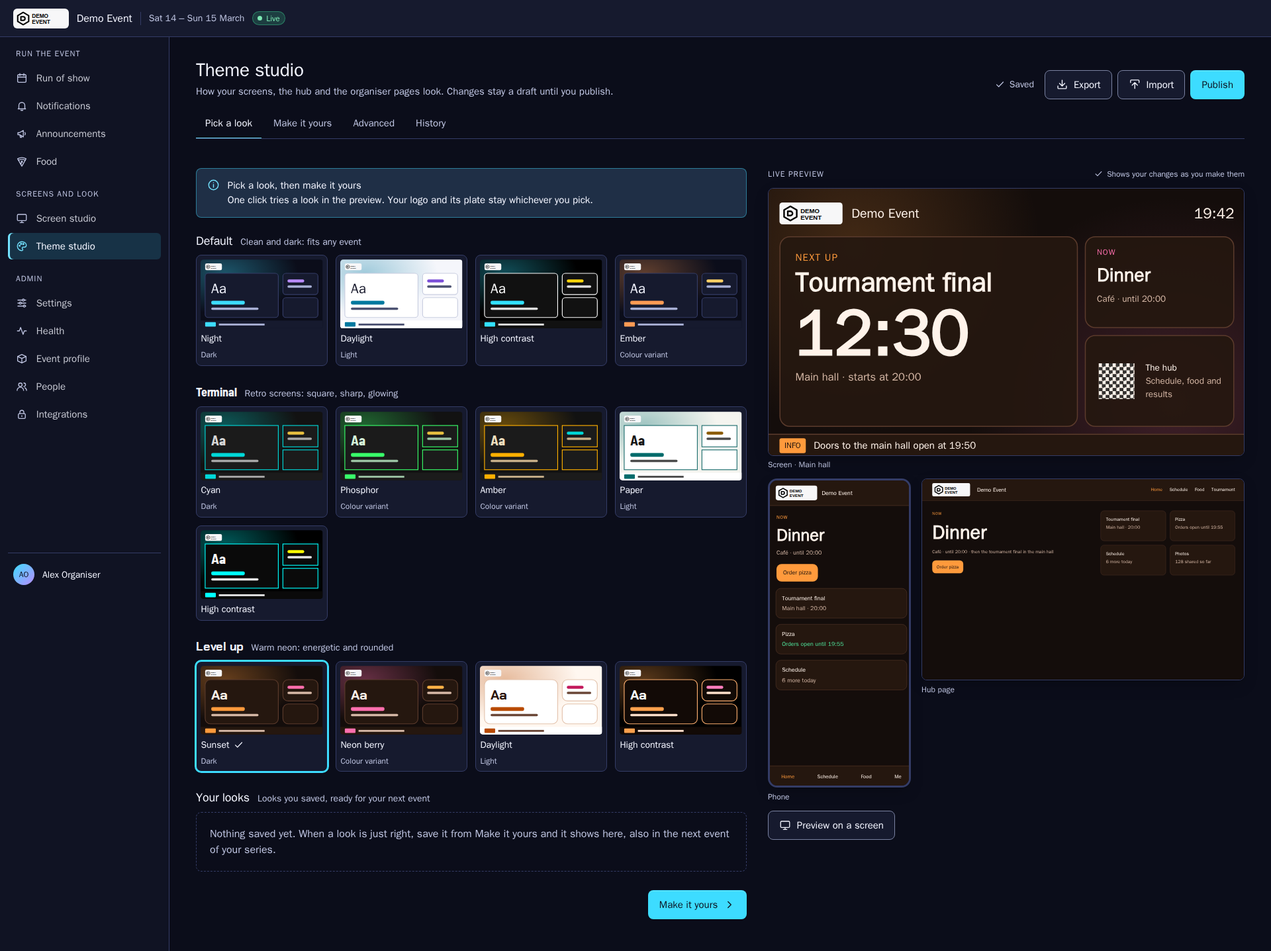
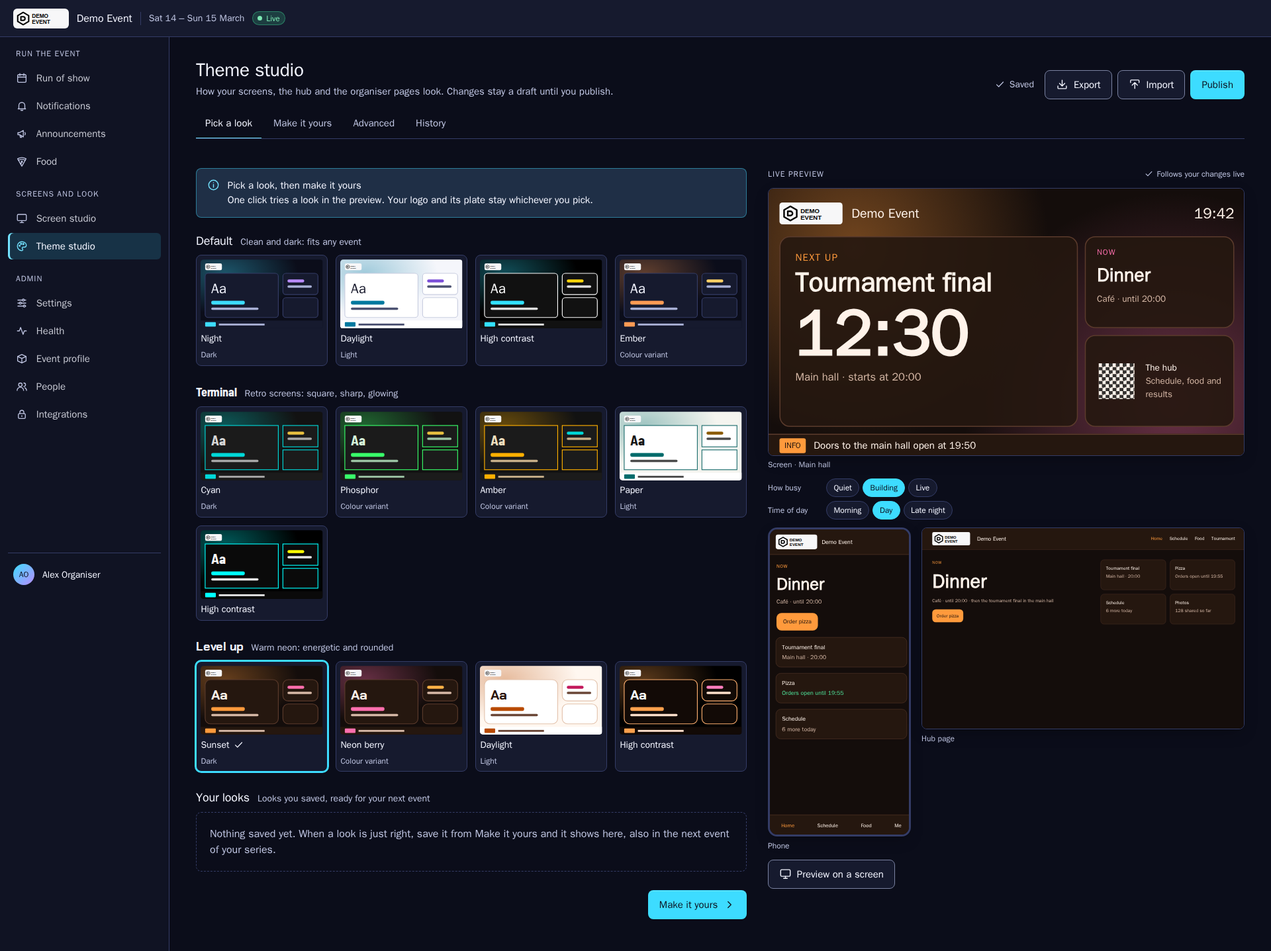
docs(design): living screen background, motion in one place, compact fonts, sticky preview (part 0 of #784)

diff --git a/docs/plans/issue-784.md b/docs/plans/issue-784.md
@@ -10,7 +10,7 @@
 
 **Spec:** [issue #784](https://github.com/Tammilanit/canccuplatform-next/issues/784) (Scope 1–5 and its acceptance criteria), [contracts/theming.md](../../contracts/theming.md), [contracts/theme.schema.json](../../contracts/theme.schema.json), the [design guideline](../design/README.md) (amendments 3 and 5), and the [briefs' mockup rules](../briefs/README.md#outline-of-a-research-pack). Linked: #785 (the Themes step designs the 5–10 presets this studio shows) and #725 (studio rows of the view audit; see Roadmap notes).
 
-**Status:** accepted by the lead on 2026-11-25, Q1–Q5 as recommended (Q4: the pack shows all 14 pairs and the PO keeps 10–15). Part 0, the pack, is built in the plan's own PR (branch `784-feat-theming-the-theme`, not `pkg-784-pack`). The lead releases each later part after the one before it merges, and Part 1 only after the PO accepts the pack.
+**Status:** accepted by the lead on 2026-11-25, Q1–Q5 as recommended (Q4: the pack shows all 14 pairs and the PO keeps 10–15). Part 0, the pack, is built in the plan's own PR (branch `784-feat-theming-the-theme`, not `pkg-784-pack`). The lead releases each later part after the one before it merges, and Part 1 only after the PO accepts the pack. **Revised 2026-11-25** after the PO's and the lead's comments on the pack: the screen background is alive (D8, D21), motion is set in one place (D14, D22), Speed and Strength are dropped, and the level follows how active the screen is (D22).
 
 ## Why a plan first
 1. **The issue says design first.** A script-built pack goes to the PO for a `manual-accept` before any build. Part 0 below is that pack.
@@ -34,7 +34,7 @@
 ## Global constraints
 - **Additive only.** No field, code, path, class, custom property or event is removed or renamed. If a change turns out to be breaking, stop and ask the lead.
 - **Migrations:** only Part 4 adds one, `009_presets.sql`, which only creates a table: no drop, rename or type change. A merged migration is never edited.
-- **The simple mode stays simple.** Every choice in Pick a look and Make it yours is a brand field or `motion`. None of them sets `mode: advanced`. Advanced controls follow today's rule: any token change except `motion` and `motion_style` makes the theme advanced.
+- **The simple mode stays simple.** Every choice in Pick a look and Make it yours is a brand field or `motion_style`. None of them sets `mode: advanced`. Advanced controls follow today's rule: any token change except `motion` and `motion_style` makes the theme advanced.
 - **Contrast:** the simple mode never produces a failing pair (contracts/theming.md, Brand kit). Every scheme of every preset passes `contrastFailures` (a test, Part 2).
 - **No typing in depths 1 and 2.** Colours use pickers and swatches. Sizes and levels use chips or sliders. Fonts are chosen from a list. The only text fields are the preset name in Save as my preset and the CSS and template editors in Advanced.
 - **No internal words on screens.** The pages never show token keys, file paths, ids or CSS values as labels ([mockup rules](../briefs/README.md#outline-of-a-research-pack)). Every label is plain words, and every Advanced control has a tooltip.
@@ -55,7 +55,7 @@
 | D5 | **The plate check:** `plateAdvice(rgba, grounds)` in `src/logo-plate.ts`. It rasterises the logo once to 128 px (`sharp`, as `raster.ts` does) and counts the opaque pixels (alpha ≥ 128). A ground "shows" the logo when at least 50 % of those pixels have a WCAG contrast of 3:1 or more against it. The grounds are the theme's `background` (screen) and `surface` (hub and shell). A logo whose box is at least 98 % opaque brings its own ground and always shows. When a ground fails, the check suggests the first plate of light, dark and surface on which at least 80 % of the pixels reach 3:1; if none does, it suggests light for a dark logo (mean luminance < 0.5) and dark otherwise. A failing logo without a plate gives the warning problem `logo_unreadable` on the logo's path. Results are kept in memory by (file sha256, ground colours), up to 256 entries | Scope 2: "A contrast check suggests a plate when the logo would vanish". `contrastRatio` already exists in `src/contrast.ts` (the issue names `readability.ts`, but contrast lives in `contrast.ts`) |
 | D6 | **`brand.font_pair`** (optional): the id of a platform font pair (`heading`, `body`). Fourteen pairs, all SIL OFL, are proposed in the pack and the PO picks 10–15 (Q4). They sit in `modules/theming/fonts/<pair>/` with their `.woff2` files, `LICENSE.txt` and `pair.json` (`name`, `heading`, `body`, the weights). They are served at `GET /theming/fonts/<pair>/<file>` (public, immutable) and listed at `GET /api/theming/font-pairs`. The generated token CSS adds their `@font-face` rules and sets `fonts.heading`, `fonts.display` and `fonts.body`. A pair that this platform version does not hold gives the warning `reference_unknown` and falls back to the system font | Scope 2: "a curated list (10–15 freely licensed pairs, self-hosted)". These are platform files and not package files, so the simple mode still holds no fonts |
 | D7 | **`brand.roundness`** (optional): `square` (0), `soft` (`0.5rem`, today's default) or `round` (`1rem`), generated into `sizes.radius`. In Advanced, a token change to `sizes.radius` clears `brand.roundness`, and a change to `fonts.*` clears `brand.font_pair`, so each value has only one source | Scope 2 "corner roundness". Without the clearing rule, a later brand save would silently overwrite an advanced choice |
-| D8 | **`brand.backdrop`** (optional): `{kind: glows\|gradient\|image\|game_art, image?: "images/…"}`, default `glows` (the stage as it is today). `gradient` is a still diagonal from `primary` through `background` to `accent`, under the scrim. `image` is a package image under `--canccu-stage-scrim`. `game_art` shows the current game's art (Screen's `display.stage.tint.art`) at every energy level, still at `none`, instead of only at lively and party. `GET /api/theming/current` gains `backdrop` (`kind`, `image_url`). The screen player adds `canccu-stage--backdrop-<kind>` and a `canccu-stage__backdrop` layer above `__glow`, and keeps the scrim on top so contrast stays true. The backdrop is for the screen; hub pages keep their plain background | Scope 2 "the background (a gradient, an image, or the current game's art)". Hub pages are read on phones, where an image behind text hurts reading (Roadmap note if the PO wants it there) |
+| D8 | **`brand.backdrop`** (optional, replaces the earlier single `kind`): `{looks?: (glows\|gradient\|particles)[], game_art?: boolean, daylight?: boolean, hype?: boolean, image?: "images/…"}`. `looks` are the looks in the cycle (default all the generated looks, a theme may bring more); the three booleans default to `true`. The screen background is a slow cycle: at random among `looks`, with a long crossfade every few minutes, calm and never busy. `game_art` means the current game's art replaces the cycle while a game is building or live, then the cycle returns (game art is not a fixed choice). `daylight` follows the time of day. `hype` lets the hype drive particles and glow. `image` (Advanced only; Part 4 adds `video` with its `poster`) replaces the cycle with the organiser's own picture under `--canccu-stage-scrim`. `GET /api/theming/current` gains `backdrop` with these fields (and `image_url`). The scrim stays on top so contrast stays true. The backdrop is for the screen; hub pages keep their plain background | Scope 2 "the background". The PO's revision: alive, not one fixed choice. Hub pages are read on phones, where a moving image behind text hurts reading (Roadmap note if the PO wants it there) |
 | D9 | **Schemes:** a preset's `theme.yaml` gains `schemes`: 3–5 entries, each `{id, name, kind: dark\|light\|contrast\|accent, brand: {primary, accent, scheme}, colors?}`. `colors` is a whole colour-token set, for presets whose colours are tuned by hand (`terminal`, `level-up`). Without it, the colours are generated from `brand`. A draft gains `preset: {id, scheme}`, saying where it came from. The `schemes` of a package are kept as they are (the round trip loses nothing) and are read only by the gallery | Scope 1: "each with its 3–5 colour schemes (dark, light, high contrast, accent variants)" |
 | D10 | **Presets are read from `events/demo/themes/`** at start, the same folder the starting points zip today (`STARTERS`), cached and validated against the schema. `GET /api/theming/presets` lists them with their schemes and the scheme's colours. #785 adds the new ones to the same folder unless Q2 moves them | Lean: the folder and its CI checks (`check-theme-refs`, shots per theme) already exist |
 | D11 | **Applying a preset:** `PUT /api/theming/draft/preset` `{preset, scheme, draft_version?}` (creating the draft when there is none) replaces the draft's content with the preset package and the scheme's colours. It **keeps** the event's `images.logo`, `images.icon`, `brand.logo_plate` and `brand.embed_color`, and sets `preset`. Reset to the preset is the same call with the draft's own `preset`. A draft without `preset` shows "Start again from a preset…", which opens Pick a look. Replacing a draft whose CSS, fonts, templates or embeds would be lost asks first in a dialog. Embeds need `theming.embeds.write`, as a package upload does | Scope 4: "Reset to the preset is always there". It reuses the package path (`putPackage`), so a preset goes through every upload check |
@@ -66,8 +66,10 @@
 | D16 | **Widget looks:** the Advanced page lists each widget type that the draft's layouts place. Each can use the platform's look or a package template made for that type (`PUT …/draft/layouts/{id}` sets `template`), with a new template started from a skeleton and edited in the D15 editor | Scope 3: "Per-widget looks (templates)". Templates and their checks already exist; the page was missing |
 | D17 | **Export and import of the draft:** `GET /api/theming/draft/package` zips the draft as the revision export does (`yazl`, `no-store`, `theming.theme.write`). Import is today's `PUT …/draft/package`. Both appear as buttons on every depth. Font pairs travel as `brand.font_pair` ids, not as files | Scope 4: "Export and import of the whole theme package". Today only a published revision exports |
 | D18 | **My presets (Part 4):** table `theming_presets` (`id`, `tenant_id`, `name` ≤ 60, `manifest` jsonb, `created_by`, `created_at`, RLS per event like every table). Its files are kept through `theming_file_refs` with the owner `p:<id>`, so retention and the quota count them. The routes are `POST /api/theming/presets` `{name}` (from the draft), `DELETE /api/theming/presets/{id}` and the gallery's "Your looks" row. `POST /api/theming/clone` also copies the source's presets, under the clone's existing rights. Applying one works as D11, with `preset: {id: "event:<id>"}` | Scope 4: "Save as my preset, so the look is reused for the next event in the series". Clone is the series' existing path between events, so no new cross-event right is needed (Q3) |
-| D19 | **Video backgrounds (Part 4):** a new package folder, `videos/`. Accepted are MP4 (`ftyp` box with an `isom`, `mp42` or `avc1` brand) and WebM (EBML header with the `webm` doctype), recognised by content, at most 20 MB each, at most 1 a theme, never transcoded, served like images (`nosniff`, CORP same-origin, `Content-Disposition` inline only for `video/*`). `brand.backdrop.kind: video` with `video` and a required `poster` image. The player plays it muted, looping and without controls under the scrim, and shows the poster at energy level `none` and under reduced motion. The package limits grow to 40 MB unpacked and a 41 MB body (Q5) | Scope 3: "own background images or video". It is a new upload type, so it is high risk and in its own part |
+| D19 | **Video backgrounds (Part 4):** a new package folder, `videos/`. Accepted are MP4 (`ftyp` box with an `isom`, `mp42` or `avc1` brand) and WebM (EBML header with the `webm` doctype), recognised by content, at most 20 MB each, at most 1 a theme, never transcoded, served like images (`nosniff`, CORP same-origin, `Content-Disposition` inline only for `video/*`). `brand.backdrop.kind: video` with `video` and a required `poster` image. The player plays it muted, looping and without controls under the scrim, and shows the poster at the calm level and under reduced motion. The package limits grow to 40 MB unpacked and a 41 MB body (Q5) | Scope 3: "own background images or video". It is a new upload type, so it is high risk and in its own part |
 | D20 | **The black logo fixture** is `events/demo/images/logo-black.svg`: a synthetic mark, black on transparent, with no real name. Shots upload it on each preset with no plate, then with the suggested plate | AC 2: "a black transparent logo on a plate in each existing preset" |
+| D21 | **The seam with #787 (the stage package, D10–D13).** #787 builds the engine: the hype signal, the game-art layer, daylight and the particles, and the cycle that fades between looks. #784 builds none of it. #784 ships the fields (D8, contract and `current`), draws the controls (Make it yours, and Advanced for the picture and video) and the preview's chips. The chips send `{type: "canccu-theme-live", state: {scene: quiet\|building\|live, daypart: morning\|day\|late}}` to the screen frame, which the real screen player (with #787's stage) draws; the sheets' stage drawing is a mockup of that. **Order:** #787's stage package merges before Part 2 starts. If it has not, the lead decides whether Part 2 waits or draws the chips over today's player | The PO: "the engine is #787's; #784 draws the controls and the preview and does not build the stage twice" |
+| D22 | **Motion is set in one place.** The motion level (still, calm, lively, party) is the screen zone's setting in Screen settings, not the theme's: Make it yours and Advanced draw no level control, only a note that says where it is set. The theme keeps its **motion style** (Standard, Broadcast, Arcade) and the countdown's look; the countdown spotlight (glow, trace) moves into the countdown's box look (D16). **Speed and Strength get no control:** the hype curve and the level cover them, and the pace never changes (README rule); the ticker's speed has its own setting in Screen settings (#779). **#787's rule:** the zone's level is the ceiling, and the screen goes from calm up to it with the hype (quiet → building → live), by itself; quiet hours cap it at calm. Additive only: the theme's `motion` level and `motion_style.speed` and `strength` stay in the schema and are ignored by the studio. A later breaking change may remove them (Roadmap note) | The PO's points 3–5. Nothing is removed here (Global constraints) |
 
 ## Legacy parity (Scope 5)
 No legacy repo had a theme studio. The only appearance editor was the signage ticker's, in `canccusignage` (`src/lib/signage/ticker-appearance.ts`, `src/pages/admin/ops.astro`).
@@ -78,7 +80,7 @@ No legacy repo had a theme studio. The only appearance editor was the signage ti
 | Ticker colours: background, text, label, countdown | Colours in Advanced (D14). The ticker draws from `surface`, `text`, `accent` and `primary` |
 | Background opacity 0–100 | The stage scrim (computed, contracts/theming.md) and the card veil. **Dropped as a free control**, because the scrim keeps text contrast true |
 | Font size ×0.75–2, body and label weights | **Dropped:** the screen's type scale is fixed to keep text readable across a hall (`text_small`). Weights come with the font pair (D6) |
-| Scroll speed 10–120 s | Screen's ticker, not the theme (contracts/screen.md). Motion speed is `motion_style.speed` |
+| Scroll speed 10–120 s | Screen's ticker, not the theme (contracts/screen.md). The studio has no speed control (D22) |
 | Live preview over a mirror of the screen, before saving | The three-frame live preview (D2, D3) |
 | Header and footer on or off, duration bars, ready fallback image | Screen's layouts and zone settings (contracts/screen.md), not the theme |
 | Slideshow transitions, pan and zoom | Screen and the motion pack, not the theme |
@@ -112,11 +114,12 @@ Everything else the theming module has today stays: history and restore, git syn
 
 **Sheets:**
 1. **Pick a look:** the gallery with the three presets × their 3–5 schemes as thumbnails, the chosen one marked, an empty "Your looks" row, and the preview column. 1280 and 1920 px.
-2. **Make it yours:** the black transparent logo with its plate controls and the suggestion ("Your logo is hard to see on this dark background. Put it on a light plate?", one click), colour pickers with logo swatches and matches, the font pairs drawn in their own fonts, roundness chips, background chips, motion chips, the preview column, and Reset to the preset. 1280 and 1920 px.
+2. **Make it yours:** the black transparent logo with its plate controls and the suggestion ("Your logo is hard to see on this dark background. Put it on a light plate?", one click), colour pickers with logo swatches and matches, the font pairs drawn in their own fonts, roundness chips, the cycle's looks to tick, three switches (the game's art, the time of day, the hype), a note that the motion level is set in Screen settings, the preview column, and Reset to the preset. 1280 and 1920 px.
 3. **The plate in every preset:** the black logo with no plate, then with the suggested plate, on the screen header, the hub header, the shell header and the Discord card, for each of the three presets. 1280 px.
 4. **Advanced:** the groups (Colours, Type, Shapes and spacing, Screen, Motion, Widget looks, CSS) with pickers, sliders and one tooltip open, the CSS editor with an error marked as you type, and the preview column. 1280 and 1920 px.
 5. **Actions and states:** Save as my preset, Export and Import, the Reset confirmation, the dialog for applying a preset over custom CSS, loading, saving and a 409 from another admin. 1280 px.
-6. **Phone:** the three depths at 390 px, preview first. 390 px.
+6. **The living background:** the cycle, quiet, building and live, morning and late night, the game's art, and the level rule. 1280 px. The phone views are 390 px renders of sheets 1, 2 and 4.
+7. **Phone (kept as renders):** the three depths at 390 px, preview first. 390 px.
 
 - [ ] Step 1: Write the failing test `pack-page lists PNG sheets from Every mockup` in `scripts/pack-page.test.mjs`: a fixture brief whose table links `a.png` and `b.svg` gives two figures, in that order, each with `data-src`. Run `node --test scripts/pack-page.test.mjs` and see it fail.
 - [ ] Step 2: Widen the table regex in `sheetsOf` to `\.(svg|png)`. Run the test and see it pass.
@@ -140,7 +143,7 @@ Everything else the theming module has today stays: history and restore, git syn
   - `font-pairs.test.ts`: every pair folder has `pair.json`, `LICENSE.txt` naming the SIL Open Font License, and woff2 files with the `wOF2` magic number; `GET /theming/fonts/<pair>/<file>` answers `font/woff2`, immutable and `nosniff`; a manifest naming an unknown pair gets the warning `reference_unknown` and publishes (Review focus 4).
   - `brand-images.test.ts`: with `logo_plate: {kind: "light", shape: "circle"}`, the 512 PNG's corner pixel is transparent and its centre ring is `#f7f7f8`.
   - `checks`: a draft with the black logo, a dark scheme and no plate lists `logo_unreadable`; with a light plate it does not.
-  - Screen player: `backdrop.kind: "image"` draws `canccu-stage__backdrop` under `canccu-stage__scrim`; `game_art` shows the art at `calm`.
+  - Screen player: `backdrop.image` draws `canccu-stage__backdrop` under `canccu-stage__scrim`. The fields `looks`, `game_art`, `daylight` and `hype` are only carried to the player in `current`; their behaviour is #787's stage (D21).
 
   Run `npm test -- logo-plate brand font-pairs brand-images checks` in `modules/theming` (and the player's stage test). They fail.
 - [ ] Step 2: Push the tests-first commit `test(theming): the brand model's plate, pairs, roundness and backdrop (part 1 of #784)`.
@@ -196,7 +199,7 @@ Everything else the theming module has today stays: history and restore, git syn
 - Produces: `ADVANCED_CONTROLS: readonly Control[]` with `Control = {group, token, label, hint, control, range?: [number, number], step?: number, cssVar: string}`; `checkFile(c, tenant, path: string, text: string): Promise<Problem[]>`.
 
 - [ ] Step 1: Write the failing tests:
-  - `studio-controls.test.ts`: every token of `Tokens` (and `motion` and every `motion_style` key) has exactly one control, every control has a non-empty `hint`, and no label is a token key.
+  - `studio-controls.test.ts`: every token of `Tokens` and every `motion_style` key except `speed` and `strength` has exactly one control; `motion` (the level), `speed` and `strength` have none and the test names why (D22), every control has a non-empty `hint`, and no label is a token key.
   - `check-routes.test.ts`: `@import url(x)` at line 3 answers `css_forbidden` with `line: 3`; a template with `{{{x}}}` answers `template_forbidden` with its line; nothing is stored (the draft's version is unchanged, and so is the quota use); a session without `theming.theme.write` gets 403.
   - `studio-advanced.browser.test.ts`:
     - For **each** entry of `ADVANCED_CONTROLS`, change the control and check that the screen frame's computed `cssVar` changes (the AC's "every advanced control updating the preview").

diff --git a/docs/design/theme-studio.md b/docs/design/theme-studio.md
@@ -1,6 +1,6 @@
 # Theme studio: the pack for the PO (#784, part 0)
 
-The PO's ask of 2026-11-23: a Theme studio for both kinds of organisers. Those who stick with presets pick a look and make it theirs with choices only. Those who want to customise everything get every token as a control, their own fonts and backgrounds, box looks and CSS. Both always see the screen, the phone and a hub page beside the controls. The [plan](../plans/issue-784.md) (accepted by the lead on 2026-11-25, Q1–Q5 as recommended) builds this in four parts after this pack is accepted.
+The PO's ask of 2026-11-23: a Theme studio for both kinds of organisers. Those who stick with presets pick a look and make it theirs with choices only. Those who want to customise everything get every token as a control, their own fonts and backgrounds, box looks and CSS. Both always see the screen, the phone and a hub page beside the controls, and the screen's background is alive. The [plan](../plans/issue-784.md) (accepted by the lead on 2026-11-25, Q1–Q5 as recommended) builds this in four parts after this pack is accepted.
 
 **How the sheets are made.** A script draws them, not a person. [`theme-studio/build.mjs`](theme-studio/build.mjs) writes each sheet as one HTML page. The page uses packages/ui's `ui.css` (the shipped organiser shell and its components), the presets' real colours from `events/demo/themes/`, and every font of the 14 pairs. Chromium then renders each page at its widths. A revision changes the script and renders again, so only what changed moves. The script also checks every scheme against the contrast rules of contracts/theming.md (Brand kit), and the build stops if one fails. The HTML is not kept in the repo: it embeds about 1 MB of fonts, and the script rebuilds it exactly.
 
@@ -8,9 +8,11 @@ The PO's ask of 2026-11-23: a Theme studio for both kinds of organisers. Those w
 1. **The three depths and their tabs:** Pick a look · Make it yours · Advanced · History. The live preview column (screen, phone, hub page) sits beside the controls on every depth. On a phone, the preview comes first, one frame at a time.
 2. **The schemes proposed for the three existing presets** (sheet 1). The Themes step (#785) designs the new presets with the same kinds of scheme.
 3. **The logo plate** (sheets 2 and 3): none, light, dark or the theme's surface; rounded or circle; small, medium or large space around it. A contrast check suggests a plate when the logo would vanish, with one button to apply it.
-4. **The font pairs (Q4).** Sheet 2 shows all 14. The PO keeps 10–15 of them, and Part 1 ships those.
+4. **The font pairs (Q4).** Still open for the PO: which of the 14 to keep. Sheet 2 now shows them as compact name plates, each in its own heading font. The PO keeps 10–15 of them, and Part 1 ships those.
 5. **Advanced as one page of controls** (sheet 4): groups, controls with an ⓘ that explains each one in place, box looks, and a CSS editor that marks problems as you type.
-6. **The shared actions and states** (sheet 5): Save as my look, Import, Export, Reset to the preset, using a look over your own changes, saving, another organiser's change, and the preview's loading and held states.
+6. **The living screen background** (sheets 2 and 6): the background slowly cycles at random among the looks the organiser leaves on (glows, gradient, particles and any look a theme brings), with a long crossfade every few minutes. Three switches, all on: the game's art while a game is on, the time of day, and more life when something big is near. Your picture and Your video stay, on Advanced only. The preview's chips (Quiet, Building, Live; Morning, Day, Late night) show each change before publishing.
+7. **Motion in one place** (sheets 2 and 4): the level (still, calm, lively, party) is the zone's setting in Screen settings, not the theme's. The theme keeps its motion style (Standard, Broadcast, Arcade) and the countdown's look, with the spotlight in the countdown's box look. Speed and Strength are dropped.
+8. **The shared actions and states** (sheet 5): Save as my look, Import, Export, Reset to the preset, using a look over your own changes, saving, another organiser's change, and the preview's loading and held states.
 
 ## The proposed schemes
 Each preset's first scheme is its theme package's own colours. Every scheme passes the contrast rules.
@@ -21,7 +23,9 @@ Each preset's first scheme is its theme package's own colours. Every scheme pass
 | Terminal | Cyan (dark, today's) · Phosphor (green) · Amber · Paper (light) · High contrast |
 | Level up | Sunset (dark, today's) · Neon berry (pink and orange) · Daylight (light) · High contrast |
 
-## The font pairs (Q4)
+## The font pairs (Q4, still open)
+**Question for the PO:** which of these 14 pairs should the studio keep (10–15)? Recommended: keep all 14 and drop any the PO finds off-brand.
+
 All 14 pairs are under the SIL Open Font License on Google Fonts. Part 1 serves them from the event's own address with their licence files, never from Google. Before the files ship, Part 1 checks each family's licence file.
 
 | # | Mood | Headings | Text |
@@ -49,16 +53,20 @@ All 14 pairs are under the SIL Open Font License on Google Fonts. Part 1 serves 
 | [01-pick-a-look-1280.png](theme-studio/01-pick-a-look-1280.png) | **Pick a look** at 1280 px. The three presets, each with its schemes as small screens that carry the event's logo on its plate and "Aa" in the preset's heading font. Level up · Sunset is chosen, and the preview shows it on the screen. "Your looks" is still empty |
 | [01-pick-a-look-1920.png](theme-studio/01-pick-a-look-1920.png) | The same at 1920 px: four schemes a row, and the screen, phone and hub page larger in the preview column |
 | [01-pick-a-look-390.png](theme-studio/01-pick-a-look-390.png) | The same on a phone: the preview first behind a Screen · Phone · Hub page switch, then two schemes a row |
-| [02-make-it-yours-1280.png](theme-studio/02-make-it-yours-1280.png) | **Make it yours** at 1280 px, on Default · Night with the black logo. The plate check has fired ("Only 1.1:1 against it"), and the light plate it suggests is chosen. Below: colours with matching swatches, all 14 font pairs drawn in their own fonts, corners, the screen background (glows, gradient, your picture, game art), motion, and Reset to the preset with Save as my look |
-| [02-make-it-yours-1920.png](theme-studio/02-make-it-yours-1920.png) | The same at 1920 px: the font pairs in three columns |
+| [02-make-it-yours-1280.png](theme-studio/02-make-it-yours-1280.png) | **Make it yours** at 1280 px, on Default · Night with the black logo. The plate check has fired ("Only 1.1:1 against it"), and the light plate it suggests is chosen. Below: colours with matching swatches, the 14 font pairs as compact name plates, corners, the screen background (the looks of the cycle to tick, three switches: game art, time of day, hype), and Reset to Default · Night with Save as my look. The preview has chips for how busy it is and the time of day. Motion is not here: a note says it is set in Screen settings |
+| [02-make-it-yours-1920.png](theme-studio/02-make-it-yours-1920.png) | The same at 1920 px: the font pairs in more columns |
 | [02-make-it-yours-390.png](theme-studio/02-make-it-yours-390.png) | The same on a phone |
+| [02-make-it-yours-1280-scrolled.png](theme-studio/02-make-it-yours-1280-scrolled.png) | The same at 1280 px, scrolled to the end: the live preview stays beside the controls all the way down (sticky) |
 | [03-logo-plates-1280.png](theme-studio/03-logo-plates-1280.png) | **The black transparent logo in every preset:** on the screen, the phone, a hub page, the organiser header and a Discord card. One row with no plate, then one row on the suggested light plate |
-| [04-advanced-1280.png](theme-studio/04-advanced-1280.png) | **Advanced** at 1280 px, on Level up · Sunset with a picture behind the screen. The groups as chips; every colour with a plain name, what it colours and whether text reads on it ("Quiet text" has its ⓘ open); the fonts, with your own font; sliders for corners, lines, spacing and the screen's edge margin (its ⓘ open); background picture or video; every motion choice; box looks; and the CSS editor with an error and a warning marked as typed |
+| [04-advanced-1280.png](theme-studio/04-advanced-1280.png) | **Advanced** at 1280 px, on Level up · Sunset with a picture behind the screen. The groups as chips; every colour with a plain name, what it colours and whether text reads on it ("Quiet text" has its ⓘ open); the fonts, with your own font; sliders for corners, lines, spacing and the screen's edge margin (its ⓘ open); the background picture or video that replaces the cycle (Advanced only); the motion style, with a note that the level is set in Screen settings; box looks, the countdown's with its spotlight; Reset to Level up · Sunset; and the CSS editor with an error and a warning marked as typed |
 | [04-advanced-1920.png](theme-studio/04-advanced-1920.png) | The same at 1920 px: the controls in two columns |
 | [04-advanced-390.png](theme-studio/04-advanced-390.png) | The same on a phone: one column, and long CSS lines wrap |
-| [05-actions-and-states-1280.png](theme-studio/05-actions-and-states-1280.png) | **Actions and states**, the same on every depth: Save as my look, Import and what an import found, Export, Reset to the preset, using a look over your own changes, the saving states, another organiser's change, and the preview loading, ready and holding Publish |
+| [05-actions-and-states-1280.png](theme-studio/05-actions-and-states-1280.png) | **Actions and states**, the same on every depth: Save as my look, Import and what an import found, Export, Reset to the preset, using a look over your own changes, the saving states, another organiser's change, and the preview loading, ready and holding Publish; the Reset dialog names Level up · Sunset, the look the sheet is on |
+| [06-background-alive-1280.png](theme-studio/06-background-alive-1280.png) | **The living background** on Level up · Sunset: the cycle of looks; quiet, building and live; morning, day and late night; the game's art while a game is on, then the cycle again; and the rule that the level follows how active the screen is |
 
 ## Notes
+- **Level follows activity.** The zone's level (still, calm, lively, party) is the ceiling. The screen goes from calm up to it with the hype (quiet → building → live), by itself, and quiet hours cap it at calm. This is #787's rule; sheets 2, 4 and 6 say so in words.
+- **Reset labels** name the preset and scheme the look came from: sheet 2 "Reset to Default · Night", sheets 4 and 5 "Level up · Sunset".
 - **Words.** The pages never show a token key, file path, id or CSS value as a label. The only typed fields are a look's name and the CSS editor. The Advanced labels answer #725's rows ("Corner roundness", "Edge margin on screens", "Save" without "tokens").
 - **No new chrome.** The shell, tabs, chips, buttons, notices, tables and fields are packages/ui's. On a phone the shell folds the tabs it cannot show under "2 more" and keeps its bottom bar. The sheets put that bar at the end of the page, because a full-page shot would otherwise paint it over the middle.
 - **Legacy parity** (Scope 5) is in the [plan](../plans/issue-784.md#legacy-parity-scope-5). The only appearance editor the old system had, the signage ticker's, is covered by schemes, the Advanced colours and the preview.
